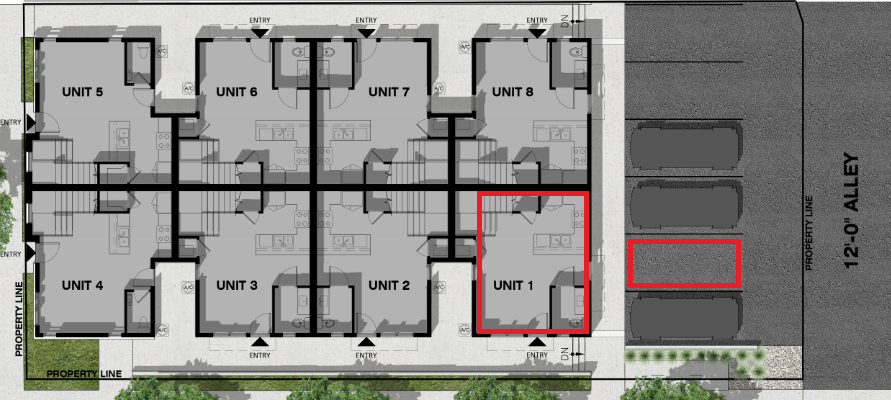
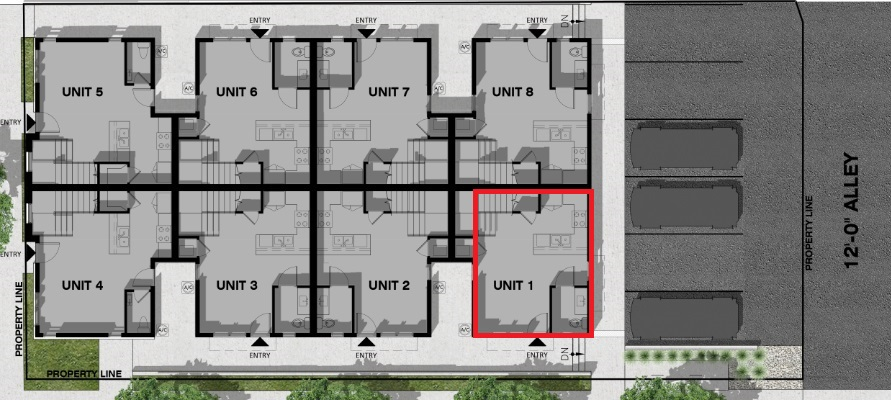
take parking spot from unit 1

Changed region(s): [[0.5152, 0.45, 0.6667, 0.87], [0.697, 0.6, 0.8485, 0.72]]

diff --git a/zen8/units18.html b/zen8/units18.html
@@ -102,7 +102,7 @@
                     <div class="media-content">
                         <div class="mbr-section-text">
                             <p class="mbr-text mb-0 mbr-fonts-style display-7">
-                               <strong>Unit 1</strong><br>Available, includes parking spot #2
+                               <strong>Unit 1</strong><br>Available, street parking
 <br>Great curb appeal on Zenobia Street
 <br>Indoor = 1073
 <br>Roof Deck = 176
